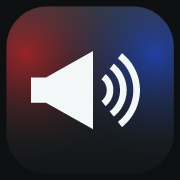
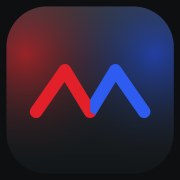
Name the app SireFlex and give it a mark
Sirene + giroflex, so the mark is the siren's own sweep — the same shape
the tone keys carry — cut in half into the lightbar's two colours. One
drawing that says both halves of the name.

It sits silkscreened across the centre of the panel, above the display,
which is where a real siren head is branded, and the same geometry drives
the home-screen icon so the two agree. The icon generator now strokes by
distance field instead of filling a path: round caps and joins come out of
that for free, and the red/blue split falls out of whichever half of the
polyline a pixel is nearer to, with no clipping.

Two defects found while drawing it:

  - The glyph pass named its distance `d`, which already held the distance
    to the plate's edge; the plate's own antialiasing read it and painted
    the mark's bounding box black.

  - Testing the polyline distance for every pixel of a supersampled 512
    tile is millions of hypots in pure Python. Outside the mark's bounding
    box the answer is always "no ink", so that is skipped now.

The decorative mark is hidden from screen readers, since the wordmark
beside it already says the name. The stored-preferences key was renamed to
match; nothing is deployed yet, so that costs no migration.

53/53 browser checks, 58/58 audio checks.

Claude-Session: https://claude.ai/code/session_01BGYKWCcRwgyquSen8gBS4m

Changed region(s): [[0.1667, 0.2778, 0.8611, 0.7222]]

diff --git a/index.html b/index.html
@@ -2,12 +2,12 @@
 <html lang="pt-BR">
 <head>
 <meta charset="utf-8">
-<title>Siren Remote — Simulador de Controlador de Sirene</title>
+<title>SireFlex</title>
 
 <!-- viewport-fit=cover lets the faceplate run under the notch and home bar;
      user-scalable=no stops a double-tap on a button from zooming the page. -->
 <meta name="viewport" content="width=device-width, initial-scale=1, maximum-scale=1, user-scalable=no, viewport-fit=cover">
-<meta name="description" content="Controlador de sirene e air horn sintetizado em tempo real, com tons calibrados pelas especificações reais de fabricante. Roda no iPhone sem App Store.">
+<meta name="description" content="SireFlex — controlador de sirene e air horn sintetizado em tempo real, com tons calibrados pelas especificações reais de fabricante. Roda no iPhone sem App Store.">
 <meta name="theme-color" content="#101214">
 <meta name="color-scheme" content="dark">
 
@@ -15,7 +15,7 @@
 <meta name="apple-mobile-web-app-capable" content="yes">
 <meta name="mobile-web-app-capable" content="yes">
 <meta name="apple-mobile-web-app-status-bar-style" content="black-translucent">
-<meta name="apple-mobile-web-app-title" content="Siren Remote">
+<meta name="apple-mobile-web-app-title" content="SireFlex">
 <link rel="apple-touch-icon" href="icons/apple-touch-icon.png">
 <link rel="icon" href="icons/icon-192.png" sizes="192x192">
 <link rel="manifest" href="manifest.webmanifest">
@@ -46,6 +46,14 @@
 
     <div class="face">
       <div class="grille" aria-hidden="true"></div>
+
+      <!-- Silkscreened on the bezel, the way a real siren head is branded. -->
+      <div class="brand">
+        <svg class="brand__mark" viewBox="0 0 72 44" aria-hidden="true">
+          <use href="#i-logo"/>
+        </svg>
+        <span class="brand__name">Sire<b>Flex</b></span>
+      </div>
 
       <!-- ---------------------- status display ---------------------- -->
       <div class="lcd" id="lcd">
@@ -161,7 +169,7 @@
 <!-- ============================ guide ============================ -->
 <div class="guide" id="guide" hidden>
   <header class="guide__bar">
-    <h2 class="guide__title">Guia</h2>
+    <h2 class="guide__title">Guia do SireFlex</h2>
     <button class="guide__close" type="button" aria-label="Fechar o guia">Fechar</button>
   </header>
   <nav class="guide__tabs" role="tablist"></nav>
@@ -195,6 +203,15 @@
       <path d="M6 13h4l6-5v18l-6-5H6z"/>
       <path d="M21 12l8 10M29 12l-8 10" stroke-width="2.4" stroke-linecap="round" fill="none"/>
     </symbol>
+    <!-- SireFlex: the siren's own sweep, split into the lightbar's two
+         colours. One shape that says both halves of the name. -->
+    <symbol id="i-logo" viewBox="0 0 72 44">
+      <path d="M6 34 L22 11 L36 34" fill="none" stroke="#e2202a"
+            stroke-width="7" stroke-linecap="round" stroke-linejoin="round"/>
+      <path d="M36 34 L50 11 L66 34" fill="none" stroke="#2f5cf0"
+            stroke-width="7" stroke-linecap="round" stroke-linejoin="round"/>
+    </symbol>
+
     <!-- AIR HORN: a pair of trumpets with the blast coming out -->
     <symbol id="i-horn" viewBox="0 0 64 44">
       <path d="M6 15h13l14-8v14l-14-3H6zM6 26h13l14 5v9l-14-8H6z"/>

diff --git a/css/app.css b/css/app.css
@@ -1,5 +1,5 @@
 /* =====================================================================
-   Siren Remote Simulator — faceplate
+   SireFlex — faceplate
    ---------------------------------------------------------------------
    Everything inside .remote is sized in em, and .remote's font-size is the
    only thing tied to the viewport. That makes the whole unit scale as one
@@ -592,3 +592,28 @@ body.is-locked { overflow: hidden; }
 }
 .guide .field select { flex: 1.2; }
 .guide .sel--inline { flex: none; }
+
+/* ====================================================================
+   Brand
+   ==================================================================== */
+
+.brand {
+  display: flex; align-items: center; justify-content: center;
+  gap: .7em;
+  margin: -.2em 0 .1em;
+}
+.brand__mark {
+  width: 4em; height: 2.45em;
+  /* The mark carries its own two colours, so it must not inherit one. */
+  flex: none;
+}
+.brand__name {
+  font-size: 1.5em;
+  font-weight: 400;
+  letter-spacing: .1em;
+  /* Same grey as the keys: this reads as printing on the panel, not as UI. */
+  color: #aab2ae;
+  text-transform: none;
+  line-height: 1;
+}
+.brand__name b { font-weight: 800; color: #e6ebe6; letter-spacing: .08em; }

diff --git a/js/ui/sheets.js b/js/ui/sheets.js
@@ -36,8 +36,9 @@ const esc = (s) => String(s).replace(/[&<>"]/g, (c) => ({ '&': '&amp;', '<': '&l
 export function openWelcome() {
   const needsInstall = isIOS() && !isStandalone();
   open(`
-    <h2>Siren Remote</h2>
-    <p>Um controlador de sirene completo, com todos os tons <strong>sintetizados ao vivo</strong>
+    <h2>SireFlex</h2>
+    <p><strong>Sire</strong>ne + giro<strong>flex</strong>: um controlador completo, com todos
+       os tons <strong>sintetizados ao vivo</strong>
        no seu aparelho — nada de arquivos de áudio. Cada tom foi calibrado pelas
        especificações publicadas dos fabricantes: as faixas de frequência e as
        taxas de varredura são as de verdade, não aproximações de ouvido.</p>

diff --git a/sw.js b/sw.js
@@ -1,5 +1,5 @@
 /**
- * sw.js — offline cache.
+ * sw.js — offline cache for SireFlex.
  *
  * The whole app is a handful of small text files and four PNGs, so it is
  * cached outright on install. Once installed the simulator never needs the
@@ -7,7 +7,7 @@
  * where there is signal.
  */
 
-const VERSION = 'siren-remote-v3';
+const VERSION = 'sireflex-v4';
 const SHELL = [
   './',
   './index.html',

diff --git a/js/ui/guide.js b/js/ui/guide.js
@@ -1,5 +1,5 @@
 /**
- * guide.js — the full-screen guide: every tone and every key, explained.
+ * guide.js — SireFlex's guide: every tone and every key, explained.
  *
  * Four tabs, one place. The illustrations come from diagrams.js, which draws
  * them from the same tone specs the synthesiser reads, so nothing here can

diff --git a/js/platform.js b/js/platform.js
@@ -7,7 +7,7 @@
 
 /* --------------------------- persistence --------------------------- */
 
-const KEY = 'sirenremote.v1';
+const KEY = 'sireflex.v1';
 
 /** localStorage throws outright in Lockdown Mode and private windows. */
 export function loadPrefs(defaults) {

diff --git a/tools/make-icons.py b/tools/make-icons.py
@@ -1,11 +1,17 @@
 #!/usr/bin/env python3
 """
-make-icons.py — draws the app icons with no image library.
+make-icons.py — draws the SireFlex app icons with no image library.
 
 There is no Pillow or ImageMagick in this environment, and an icon is just a
 grid of numbers, so the PNG is assembled by hand: rasterise into a float
 buffer at 4x, box-filter it down for antialiasing, then wrap the bytes in the
 three chunks a PNG needs (IHDR, IDAT, IEND).
+
+The mark is the siren's own sweep split into the lightbar's two colours —
+the same shape the faceplate is branded with, so the home-screen icon and
+the panel agree. It is stroked by distance field rather than by filling a
+path, which gives round caps and joins for free, and the red/blue split
+falls out of whichever half of the polyline a pixel is nearer to.
 
 Usage:  python3 tools/make-icons.py
 """
@@ -42,6 +48,37 @@ def write_png(path, pixels, w, h):
 
 # ----------------------------------------------------------------- drawing
 
+RED = (226, 32, 42)
+BLUE = (47, 92, 240)
+
+# The mark, in its own 72 x 44 space — the same geometry the faceplate uses.
+MARK_W, MARK_H = 72.0, 44.0
+MARK_RED = [(6, 34), (22, 11), (36, 34)]
+MARK_BLUE = [(36, 34), (50, 11), (66, 34)]
+MARK_STROKE = 7.0
+
+
+def seg_dist_one(px, py, ax, ay, bx, by):
+    """Distance from a point to a line segment."""
+    vx, vy = bx - ax, by - ay
+    wx, wy = px - ax, py - ay
+    denom = vx * vx + vy * vy
+    t = 0.0 if denom == 0 else max(0.0, min(1.0, (wx * vx + wy * vy) / denom))
+    return math.hypot(px - (ax + t * vx), py - (ay + t * vy))
+
+
+def seg_dist(px, py, pts):
+    """Distance to a polyline. Round caps and joins come out of this for free."""
+    best = float("inf")
+    for i in range(len(pts) - 1):
+        ax, ay = pts[i]
+        bx, by = pts[i + 1]
+        d = seg_dist_one(px, py, ax, ay, bx, by)
+        if d < best:
+            best = d
+    return best
+
+
 def lerp(a, b, t):
     return a + (b - a) * t
 
@@ -65,12 +102,32 @@ def render(size, maskable=False):
     # pulled into the middle 80% safe zone and the plate fills the whole tile.
     inset = n * 0.0 if maskable else n * 0.035
     radius = n * 0.5 if maskable else n * 0.225
-    # Smaller divisor = smaller glyph. The maskable tile shrinks further so the
-    # artwork survives a circular crop.
-    art = 0.62 if maskable else 0.82
+    # Share of the tile the mark spans. The maskable tile keeps more margin so
+    # the artwork survives a circular crop.
+    art = 0.56 if maskable else 0.72
 
     buf = [(0, 0, 0)] * (n * n)
     cx = cy = n / 2
+
+    # Fit the mark into the tile, centred, at `art` of the full width.
+    scale = (n * art) / MARK_W
+    ox = cx - (MARK_W * scale) / 2
+    oy = cy - (MARK_H * scale) / 2
+    place = lambda pts: [(ox + x * scale, oy + y * scale) for x, y in pts]
+    red_pts = place(MARK_RED)
+    blue_pts = place(MARK_BLUE)
+    half = (MARK_STROKE * scale) / 2
+    AA = 0.75
+
+    # Bounding box of the stroked mark. Testing distance to the polyline for
+    # every pixel of a supersampled 512 tile is millions of hypots in pure
+    # Python; outside this box the answer is always "no ink", so skip it.
+    all_pts = red_pts + blue_pts
+    pad = half + AA + 1
+    bx0 = min(x for x, _ in all_pts) - pad
+    bx1 = max(x for x, _ in all_pts) + pad
+    by0 = min(y for _, y in all_pts) - pad
+    by1 = max(y for _, y in all_pts) + pad
 
     for y in range(n):
         for x in range(n):
@@ -89,30 +146,25 @@ def render(size, maskable=False):
             col = mix(col, (226, 32, 38), gl ** 2 * 0.62)
             col = mix(col, (32, 78, 235), gr ** 2 * 0.62)
 
-            # ---- the horn glyph -------------------------------------
-            ux = (x - cx) / (n * art)
-            uy = (y - cy) / (n * art)
+            # ---- the SireFlex mark -----------------------------------
             ink = 0.0
-
-            # mouth: a trapezoid opening to the right
-            if -0.30 <= ux <= 0.02:
-                half = lerp(0.085, 0.265, (ux + 0.30) / 0.32)
-                if abs(uy) <= half:
-                    ink = 1.0
-            # throat: the small rectangle feeding it
-            if -0.40 <= ux <= -0.28 and abs(uy) <= 0.085:
-                ink = 1.0
-
-            # three wavefronts leaving the mouth
-            rr = math.hypot(ux - 0.02, uy)
-            ang = math.degrees(math.atan2(uy, ux - 0.02))
-            if abs(ang) < 52:
-                for band in (0.115, 0.205, 0.295):
-                    if abs(rr - band) < 0.0225:
-                        ink = 1.0
+            col_ink = None
+            if bx0 <= x <= bx1 and by0 <= y <= by1:
+                # Named dm, not d: `d` already holds the distance to the
+                # plate's own edge, and the plate's antialiasing below reads
+                # it. Shadowing it here painted the mark's bounding box black.
+                d_red = seg_dist(x, y, red_pts)
+                d_blue = seg_dist(x, y, blue_pts)
+                dm = min(d_red, d_blue)
+                if dm <= half + AA:
+                    # Antialias the stroke edge over one supersampled pixel.
+                    ink = 1.0 if dm <= half - AA else (half + AA - dm) / (2 * AA)
+                    # Whichever half of the sweep is nearer owns the pixel, so
+                    # the colour split needs no clipping of its own.
+                    col_ink = RED if d_red <= d_blue else BLUE
 
             if ink > 0:
-                col = (244, 247, 248)
+                col = mix(col, col_ink, ink)
 
             # antialias the plate edge
             if d > -1.0:

diff --git a/README.md b/README.md
@@ -1,6 +1,6 @@
-# Siren Remote Simulator
+# SireFlex
 
-Um controlador de sirene e air horn que roda no iPhone — sem App Store, sem
+**Sire**ne + giro**flex**. Um controlador de sirene, buzina e giroflex que roda no iPhone — sem App Store, sem
 Xcode, sem conta de desenvolvedor. Abre no Safari, vai para a tela de início e
 funciona offline.
 
@@ -8,6 +8,18 @@ O ponto de partida foi o faceplate do *Siren Remote Simulator* (Android), que
 não tem versão para iOS. O layout foi recriado; o áudio foi feito do zero.
 
 ![faceplate](docs/faceplate.png)
+
+## O nome e a marca
+
+**Sire**ne + giro**flex**. A marca é a varredura da própria sirene — a mesma
+forma que aparece nos botões de tom — cortada ao meio nas duas cores do
+giroflex. Um desenho que diz as duas metades do nome.
+
+Ela é serigrafada no centro do painel, como se faz numa central de sirene de
+verdade, e é o mesmo desenho do ícone da tela de início. O ícone é gerado por
+`python3 tools/make-icons.py`, que escreve os PNGs à mão — traçado por campo de
+distância, o que dá pontas e junções arredondadas de graça, e a divisão
+vermelho/azul cai sozinha em qual metade da varredura o pixel está mais perto.
 
 ## O guia embutido
 
@@ -161,7 +173,7 @@ que ler o código não pegou:
 
 ```
 58/58 checks passed     (áudio)
-47/47 UI checks passed  (navegador)
+53/53 UI checks passed  (navegador)
 ```
 
 Os ícones são gerados por `python3 tools/make-icons.py`, que escreve os PNGs à
